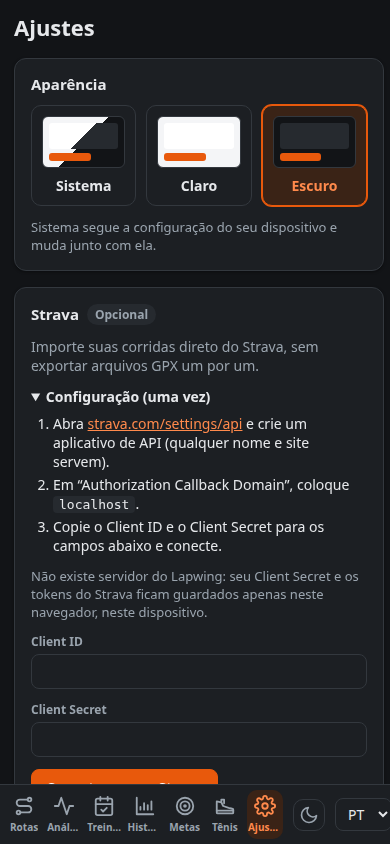
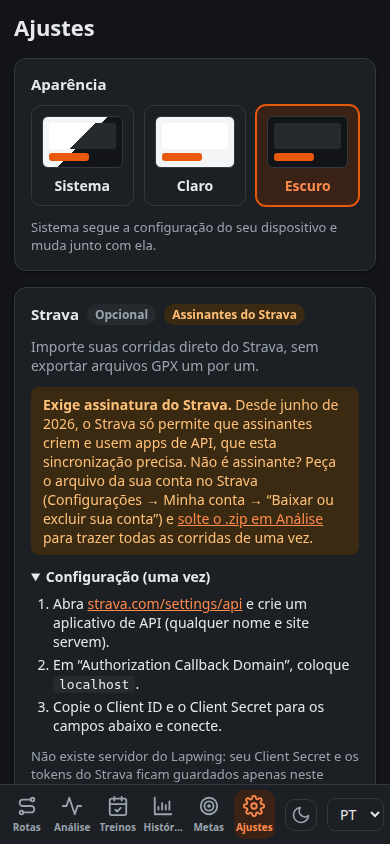
docs: add English README and refresh screenshots without the shoes tab

diff --git a/README.en.md b/README.en.md
@@ -1,0 +1,121 @@
+# Lapwing 🐦
+
+[Português](README.md) · **English**
+
+**Plan running routes, understand your workouts and track your progress, all in your browser.**
+
+*Lapwing* is the English name of the **quero-quero**, the little bird that is always running around Brazilian lawns. A good fit for people who love to run, don't you think? 😊
+
+Lapwing is made for people who run for fun, for their health or to set new records. You don't need an account, a subscription or a sign-up. Just open it and go.
+
+![Lapwing's History screen in the light theme](docs/images/history-light.png)
+
+---
+
+## What you can do
+
+| | Screen | What it's for |
+|---|---|---|
+| 🗺 | **Routes** | Draw a route by clicking on the map. Lapwing follows streets and trails on its own, shows the distance and the climb, and works out how long it will take at your pace. Then just export it to your watch (GPX). |
+| 📈 | **Analysis** | Import your runs (GPX, FIT or TCX files from Strava, Garmin or any other watch) and get a full report: map, pace, heart rate, per-km splits and your best efforts. Want to bring everything at once? Drop in your whole Strava account archive, no subscription needed. |
+| 📅 | **Training** | Build a plan for your next race, or let Lapwing generate one. It automatically checks off the workouts you've already done and exports the plan to your calendar or your watch. |
+| 📊 | **History** | See how much you ran each week, how your pace is evolving, your records and a calendar with all your running days. You can filter by distance, pace, climb and more. |
+| ⚖ | **Compare** | Put two runs side by side and find out where you were faster. |
+| 🎯 | **Insights** | Set weekly or monthly goals, get an estimate of your 5K, 10K, half marathon and marathon times, and get a warning when you're training too much. |
+| ⚙ | **Settings** | Choose a light or dark theme, connect Strava (if you want; requires a Strava subscription) and back up your data. |
+
+The app works in **Portuguese** and **English**, on desktop and on mobile.
+
+![A run report in the dark theme](docs/images/report-dark.png)
+
+---
+
+## Your data is yours 🔒
+
+- Everything you import or create is **stored only in your browser**, on this device.
+- Lapwing **has no server** and doesn't send your runs anywhere.
+- The internet is used for just three things: loading the **map** (OpenFreeMap), **calculating paths** in the route editor (BRouter) and, if you want, **fetching runs from Strava** (available to Strava subscribers).
+- So you don't lose anything, use **Settings → Backup & restore** every now and then. It's also how you move your data to another computer.
+
+More details in [Privacy](docs/privacy.md) (in Portuguese).
+
+---
+
+## Getting started
+
+### I just want to use it
+
+If someone has already published Lapwing on a website, just open the address in your browser. That's it! Start with:
+
+1. **Routes**: click on the map to draw your next workout.
+2. **Analysis**: drag your run files (GPX, FIT or TCX) in to see your reports. Use Strava? Request your account archive at **Settings → My Account → Download or delete your account** and drop in the whole `.zip`, without unzipping it: your entire history comes in at once, and no subscription is needed.
+3. **Settings**: pick a theme and make your first backup.
+
+The full walkthrough is in [First steps](docs/getting-started/first-steps.md) (in Portuguese).
+
+### I want to run it on my computer
+
+You'll need [Node.js](https://nodejs.org/) (version 20.19 or newer, or 22.12 or newer). In a terminal, inside the project folder:
+
+```bash
+npm install     # downloads what the app needs (first time only)
+npm run dev     # opens the app at http://localhost:5173
+```
+
+To build the final version, which you can publish on any static site host:
+
+```bash
+npm run build   # type-checks the code, runs the checks and creates the dist/ folder
+```
+
+See all the details in [Install and run](docs/getting-started/install-and-run.md) (in Portuguese).
+
+---
+
+## Documentation 📚
+
+The documentation lives in the [`docs/`](docs/README.md) folder, is written in Brazilian Portuguese and is organized as a **tree**. Each folder has an index, and each page shows where it sits in the tree. This makes it easy to read for both people and AI assistants. For an English summary of the project and the documentation, see [`llms.txt`](llms.txt).
+
+```
+docs/
+├── README.md          ← start here (full map)
+├── overview.md        — what Lapwing is and how it thinks
+├── getting-started/   — installing, running and first steps
+├── features/          — a plain-language guide to each screen
+├── architecture/      — how the code works under the hood
+├── development/       — how to contribute: commands, tests and conventions
+├── reference/         — file formats, commands and glossary
+├── privacy.md         — where your data lives
+└── faq.md             — frequently asked questions
+```
+
+---
+
+## Want to help? 🤝
+
+All help is welcome: an idea, a bug report, a better translation or a piece of code.
+
+- Before touching the code, read [Development](docs/development/README.md) (in Portuguese).
+- Run `npm test` and `npm run build` before submitting your change.
+- Write any new text in **both Portuguese and English**.
+
+---
+
+## Acknowledgements 💛
+
+Lapwing exists thanks to amazing open projects:
+
+- [OpenStreetMap](https://www.openstreetmap.org/) and its contributors, for the map data
+- [OpenFreeMap](https://openfreemap.org/), for the free maps
+- [BRouter](https://brouter.de/), for the path calculation
+- [MapLibre](https://maplibre.org/) and [Chart.js](https://www.chartjs.org/), for the map and the charts
+
+Lapwing is not officially affiliated with Strava, Garmin or any other brand mentioned.
+
+---
+
+## License
+
+Distributed under the **MIT** license: you're free to use, copy, modify and share it, as long as you keep the copyright notice. See the [LICENSE](LICENSE) file.
+
+Made with love for people who love to run. Happy running! 🏃♀🏃♂

diff --git a/docs/README.md b/docs/README.md
@@ -27,7 +27,7 @@ docs/
 ├── overview.md                        — o que é o Lapwing, princípios e visão geral das telas
 ├── privacy.md                         — onde ficam os dados e o que sai do aparelho
 ├── faq.md                             — perguntas frequentes de quem usa
-├── images/                            — capturas de tela usadas no README
+├── images/                            — capturas de tela dos READMEs (pt e en)
 │
 ├── getting-started/                   — para começar
 │   ├── README.md                      — índice do ramo

diff --git a/README.md b/README.md
@@ -1,5 +1,7 @@
 # Lapwing 🐦
 
+**Português** · [English](README.en.md)
+
 **Crie rotas de corrida, entenda seus treinos e acompanhe sua evolução, tudo no seu navegador.**
 
 *Lapwing* é o nome em inglês do **quero-quero**, aquele passarinho que vive correndo pelos gramados. Combina com quem gosta de correr, não é? 😊
